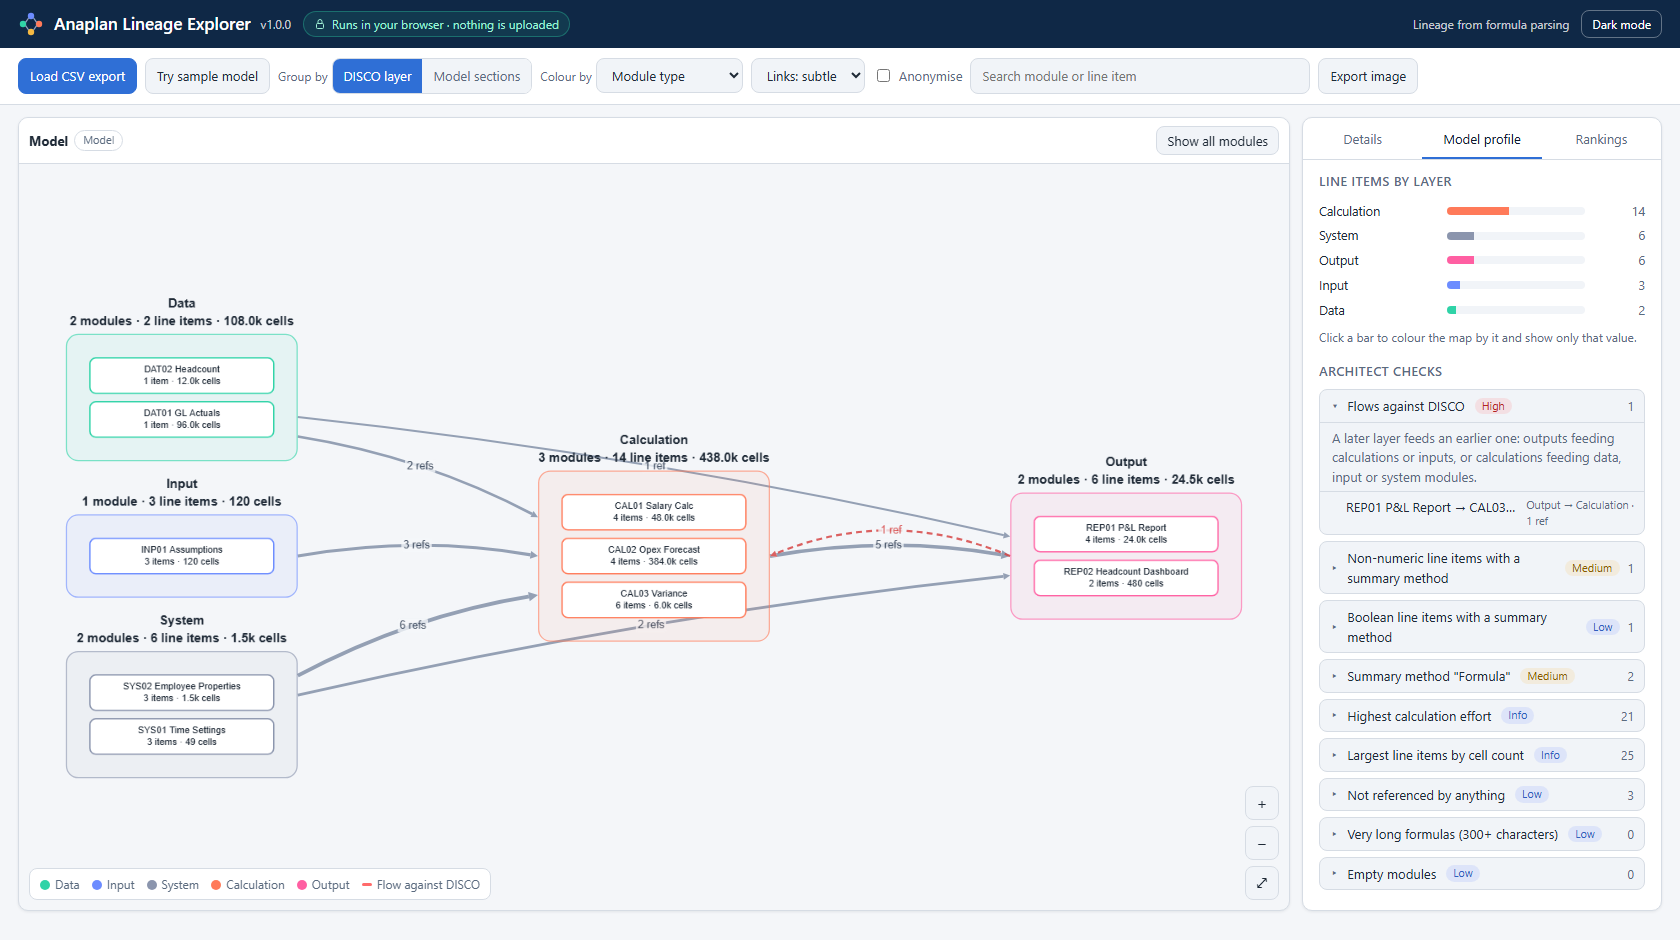
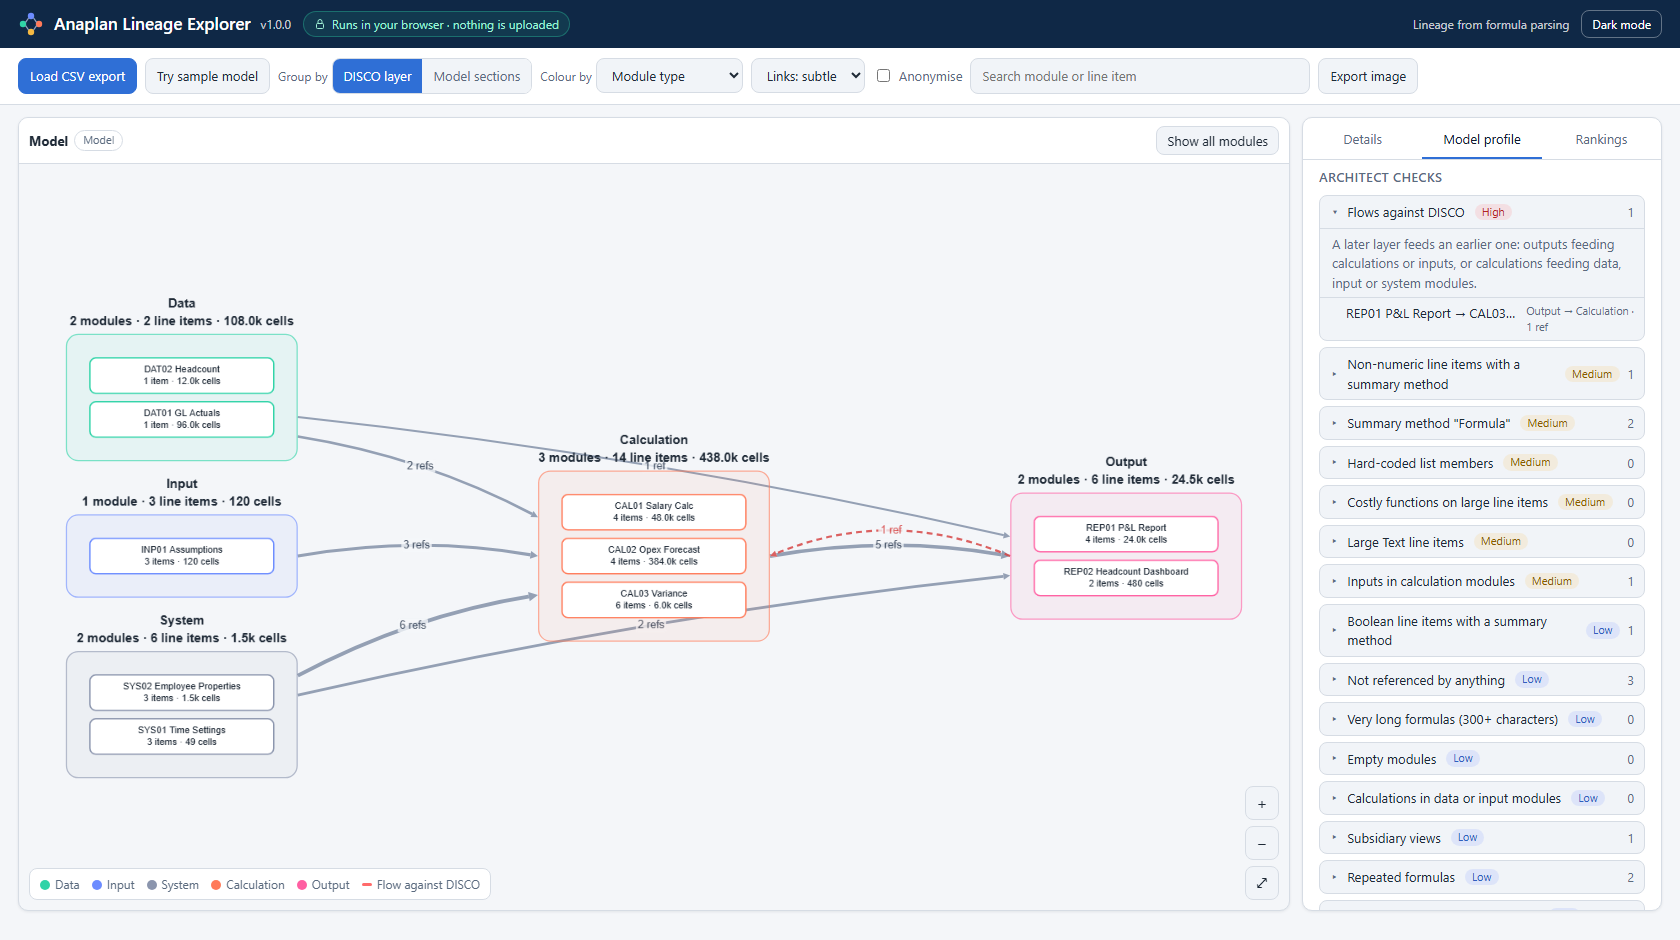
Add nine architect checks to the Model profile
DISCO structure:
- Inputs in calculation modules (no formula, excluding headings and
  No data line items).
- Calculations in data or input modules.
- Subsidiary views: Applies To or time scale differs from the module
  row (skipped when the export has no module rows).

Formulas:
- Hard-coded list members: [SELECT: List.Item] and ITEM(List) =
  List.Item, but not a comparison with a line item.
- Hard-coded numbers, ignoring 0, 1 and 100, numbers inside names and
  quotes, and position arguments of LAG, OFFSET, MOVINGSUM, ROUND,
  LEFT, RIGHT and MID.
- The same formula on the same inputs in more than one line item.
- Formulas with four or more IFs.

Performance (line items over 1 million cells):
- Costly functions: FINDITEM, RANK, RANKCUMULATE, ISFIRSTOCCURRENCE,
  TEXTLIST, POST and text functions, including &.
- Large Text line items.

The checks live in the parsing core as architectChecks(), with unit
tests on made-up data; layerOf() moves there too. All checks are now
ordered by severity, and details that quote a formula are hidden while
Anonymise is on. README, CHANGELOG and the profile screenshot are
updated.

Changed region(s): [[0.7738, 0.1851, 0.9905, 0.9564], [0.9595, 0.216, 0.9905, 0.2468]]

diff --git a/index.html b/index.html
@@ -463,6 +463,117 @@ function parseFiles(files,onProgress){
   return {items,modules,mods,edges:res.edges,source:res.source};
 }
 
+/* ---------- DISCO layer from module name prefixes (DAT, INP, SYS, CAL, OUT…) ---------- */
+const PREFIX_LAYER={SYS:'System',MAP:'System',ADM:'System',DAT:'Data',STG:'Data',STAG:'Data',IMP:'Data',INP:'Input',CAL:'Calculation',CALC:'Calculation',OUT:'Output',REP:'Output',EXP:'Output',DSH:'Output'};
+function layerOf(name){
+  const m=String(name).match(/(?:^|[\s\d._\-])(SYS|DAT|INP|CALC|CAL|OUT|REP|EXP|MAP|STAG|STG|IMP|DSH|ADM)[A-Z0-9]{0,3}(?=[\s\d._\-:]|$)/);
+  if(m) return PREFIX_LAYER[m[1]];
+  const n=String(name);
+  if(/\bstag/i.test(n)) return 'Data'; if(/\bcalc/i.test(n)) return 'Calculation';
+  if(/\b(report|output|export|dashboard)/i.test(n)) return 'Output'; if(/\b(input|assumption)/i.test(n)) return 'Input';
+  if(/\b(system|mapping|properties|settings|calendar|filter|access|time)\b/i.test(n)) return 'System';
+  return 'Other';
+}
+
+/* ---------- Architect checks: line items in, findings out ----------
+   Each finding row is {it, detail, sensitive}. A sensitive detail quotes formula text or names,
+   so the page hides it while Anonymise is on. Thresholds are the ones agreed for v1.1. */
+const LARGE_CELLS=1e6;                      /* "large" line item for the performance checks */
+const HARDCODE_OK=new Set([0,1,100]);       /* numbers not worth flagging (-1 is "-" then 1) */
+const OFFSET_FNS=new Set(['LAG','OFFSET','MOVINGSUM','ROUND','LEFT','RIGHT','MID']); /* their numeric arguments are positions or lengths */
+const COSTLY_FNS=['FINDITEM','RANK','RANKCUMULATE','ISFIRSTOCCURRENCE','TEXTLIST','POST','LEFT','RIGHT','MID','FIND','SUBSTITUTE','TEXT'];
+const MAX_IFS=4, MIN_REPEAT_LEN=20;
+const shortNum=n=>n>=1e9?(n/1e9).toFixed(1)+'B':n>=1e6?(n/1e6).toFixed(1)+'M':n>=1e3?(n/1e3).toFixed(1)+'k':String(Math.round(n));
+
+/* blank out quoted text but keep its length, so positions still line up: '"' strings always, quoted names too when names=true */
+function blankQuoted(f,names){
+  let out='',dq=false,sq=false;
+  for(const c of String(f||'')){
+    if(c==='"'&&!sq){ dq=!dq; out+=c; continue; }
+    if(names&&c==="'"&&!dq){ sq=!sq; out+=c; continue; }
+    out+=(dq||sq)?' ':c;
+  }
+  return out;
+}
+/* the token next to position i, skipping spaces: a single operator character, a whole word, or '' at either end */
+function tokenNear(s,i,dir){
+  let k=dir<0?i-1:i; while(k>=0&&k<s.length&&/\s/.test(s[k])) k+=dir;
+  if(k<0||k>=s.length) return '';
+  if(!/[A-Za-z_]/.test(s[k])) return s[k];
+  let a=k,b=k; while(a>0&&/[A-Za-z_]/.test(s[a-1])) a--; while(b<s.length-1&&/[A-Za-z_]/.test(s[b+1])) b++;
+  return s.slice(a,b+1);
+}
+const isBoundary=t=>t===''||(t.length===1&&OPS.indexOf(t)>=0)||KW.has(t.toLowerCase());
+/* numbers that stand alone between operators or keywords (so the 2 in an unquoted name like "Item 2" is ignored) */
+function hardCodedNumbers(formula){
+  const s=blankQuoted(formula,true), out=[], stack=[];
+  for(let i=0;i<s.length;i++){
+    const c=s[i];
+    if(c==='('){ const w=s.slice(0,i).match(/([A-Za-z_]+)\s*$/); stack.push(w?w[1].toUpperCase():''); continue; }
+    if(c===')'){ stack.pop(); continue; }
+    if(c>='0'&&c<='9'&&!/[\w.]/.test(s[i-1]||'')){
+      const n=s.slice(i).match(/^\d+(?:\.\d+)?/)[0], j=i+n.length;
+      if(!/[\w.]/.test(s[j]||'')&&isBoundary(tokenNear(s,i,-1))&&isBoundary(tokenNear(s,j,1))&&!HARDCODE_OK.has(+n)&&!OFFSET_FNS.has(stack[stack.length-1])) out.push(n);
+      i=j-1;
+    }
+  }
+  return out;
+}
+/* [SELECT: List.Item], and ITEM(List) = List.Item (either way round) where the other side is not a line item.
+   VERIFY: comparing ITEM() with a list-formatted line item is the recommended pattern, so it is not flagged. */
+function hardCodedMembers(formula,own,byName){
+  const s=blankQuoted(formula,false), out=[]; let m;
+  const sel=/\[\s*SELECT\s*:\s*([^\]]+)\]/gi; while((m=sel.exec(s))) out.push('SELECT: '+m[1].trim());
+  const side=t=>{ t=t.trim(); return t&&t.indexOf('.')>0&&!lookup(t,own,byName)?t:''; };
+  const fwd=/ITEM\s*\([^()]*\)\s*(=|<>)\s*/gi;
+  while((m=fwd.exec(s))){ const rest=s.slice(m.index+m[0].length).match(/^(.*?)(?=\s+(?:THEN|AND|OR|ELSE)\b|[),\]]|$)/i); const t=side(rest?rest[1]:''); if(t) out.push('ITEM(…) '+m[1]+' '+t); }
+  const back=/(=|<>)\s*ITEM\s*\(/gi;
+  while((m=back.exec(s))){ const before=s.slice(0,m.index).match(/(?:^|[(,&+*\/]|\b(?:IF|THEN|ELSE|AND|OR|NOT)\b)\s*([^(),&+*\/=<>]*)$/i); const t=side(before?before[1]:''); if(t) out.push(t+' '+m[1]+' ITEM(…)'); }
+  return out;
+}
+function architectChecks(model){
+  const {items,byName,edges}=model;
+  const modOf=it=>byName.get(norm(it.module));
+  const layer=it=>{ const m=modOf(it); return m?(m.layer||layerOf(m.name)):layerOf(it.module); };
+  const ins=new Map(); for(const [s,t] of edges){ if(!ins.has(t)) ins.set(t,[]); ins.get(t).push(s); }
+  const check=(t,sev,help)=>({t,sev,help,rows:[]});
+  const inCal=check('Inputs in calculation modules','med','Line items with no formula in Calculation modules. In DISCO, data and inputs belong in Data or Input modules, so calculation modules stay pure formulas.');
+  const calcIn=check('Calculations in data or input modules','low','Line items with a formula in Data or Input modules. Simple flags can be fine, but most logic belongs in Calculation modules.');
+  const sub=check('Subsidiary views','low',"Line items whose Applies To or time scale differs from their module's. Some are intended; many are better as their own module. Needs the module rows in the export.");
+  const nums=check('Hard-coded numbers in formulas','low','Numbers typed into formulas (other than 0, 1 and 100, and positions or lengths in functions such as LAG, OFFSET and LEFT). Consider an assumption line item that users can see and change.');
+  const members=check('Hard-coded list members','med','Formulas that name a specific list item, through SELECT or ITEM(…) = List.Item. They break when the list changes. Consider a Boolean or list-formatted line item in a system module instead.');
+  const repeat=check('Repeated formulas','low','The same formula on the same inputs in more than one line item. Calculating it once and referencing the result is easier to maintain and often cheaper.');
+  const ifs=check('Deeply nested IFs',"low",`Formulas with ${MAX_IFS} or more IFs. Consider splitting them into steps, or a lookup from a mapping module.`);
+  const costly=check('Costly functions on large line items','med',`Functions such as FINDITEM, RANK, ISFIRSTOCCURRENCE, POST and text functions (including &) on line items over ${shortNum(LARGE_CELLS)} cells. Check whether they can run on a smaller line item and be referenced.`);
+  const bigText=check('Large Text line items','med',`Text line items over ${shortNum(LARGE_CELLS)} cells. Text takes much more memory than numbers, Booleans or list formats.`);
+  const groups=new Map();
+  for(const it of items){
+    const p=it.p||{}, f=it.formula||'', lay=layer(it), m=modOf(it), md=m&&m.meta||{};
+    if(lay==='Calculation'&&!f&&p.fmtType!=='No data'&&!/^heading/i.test(p.style||'')) inCal.rows.push({it,detail:'no formula'});
+    if((lay==='Data'||lay==='Input')&&f) calcIn.rows.push({it,detail:lay});
+    if(md.name){ /* VERIFY: an empty Applies To or Time Scale on a line item means it follows the module */
+      const mine=splitList(it.appliesTo).map(norm).sort().join('|'), theirs=splitList(md.appliesTo).map(norm).sort().join('|');
+      if(mine&&mine!==theirs) sub.rows.push({it,detail:'Applies To differs from the module'});
+      else if(p.ts&&md.ts&&norm(p.ts)!==norm(md.ts)) sub.rows.push({it,detail:`time scale ${p.ts} (module ${md.ts})`});
+    }
+    if(!f) continue;
+    const n=hardCodedNumbers(f); if(n.length) nums.rows.push({it,detail:[...new Set(n)].join(', '),sensitive:true});
+    const hm=hardCodedMembers(f,m,byName); if(hm.length) members.rows.push({it,detail:hm.join('; '),sensitive:true});
+    const plain=blankQuoted(f,true);
+    const nIf=(plain.match(/\bIF\b/gi)||[]).length; if(nIf>=MAX_IFS) ifs.rows.push({it,detail:nIf+' IFs'});
+    if(f.length>=MIN_REPEAT_LEN&&/[-+*\/&<>=(\[]/.test(plain)){ /* logic, not a plain reference */
+      const k=f.replace(/\s+/g,' ').trim().toLowerCase()+'|'+(ins.get(it.idx)||[]).slice().sort((a,b)=>a-b).join(',');
+      if(!groups.has(k)) groups.set(k,[]); groups.get(k).push(it); }
+    if((p.cells||0)>LARGE_CELLS){
+      const fns=COSTLY_FNS.filter(fn=>new RegExp('\\b'+fn+'\\s*\\(','i').test(plain)); if(plain.indexOf('&')>=0) fns.push('&');
+      if(fns.length) costly.rows.push({it,detail:fns.join(', ')+' · '+shortNum(p.cells)+' cells'});
+    }
+  }
+  for(const it of items){ const p=it.p||{}; if(p.fmtType==='Text'&&(p.cells||0)>LARGE_CELLS) bigText.rows.push({it,detail:shortNum(p.cells)+' cells'}); }
+  groups.forEach(g=>{ if(g.length>1) for(const it of g) repeat.rows.push({it,detail:`same as ${g.length-1} other line item${g.length===2?'':'s'}`}); });
+  return [members,costly,bigText,inCal,calcIn,sub,repeat,nums,ifs];
+}
+
 </script>
 <script src="https://cdn.jsdelivr.net/npm/cytoscape@3.30.2/dist/cytoscape.min.js" integrity="sha384-IWROdLKRsN1UuJywMlWl7/blXQ8GEooN2n7dzTxfEPd7ybYIKCUJ2Ol/1Gpf3YV4" crossorigin="anonymous"></script>
 <script>
@@ -481,16 +592,6 @@ const LAYERS=['Data','Input','System','Calculation','Output','Other'];
 const LAYER_COLOR={Data:'#2fd3a7',Input:'#6c8cff',System:'#8b95ad',Calculation:'#ff7a59',Output:'#ff5fa2',Other:'#b38cff'};
 const LAYER_RANK={Data:0,Input:0,System:0,Calculation:1,Output:2};
 const SECTION_COLORS=['#6c8cff','#2fd3a7','#ff7a59','#ff5fa2','#f5b942','#b38cff','#4fc3f7','#9ccc65','#e57373','#a1887f','#90a4ae','#ffb74d'];
-const PREFIX_LAYER={SYS:'System',MAP:'System',ADM:'System',DAT:'Data',STG:'Data',STAG:'Data',IMP:'Data',INP:'Input',CAL:'Calculation',CALC:'Calculation',OUT:'Output',REP:'Output',EXP:'Output',DSH:'Output'};
-function layerOf(name){
-  const m=String(name).match(/(?:^|[\s\d._\-])(SYS|DAT|INP|CALC|CAL|OUT|REP|EXP|MAP|STAG|STG|IMP|DSH|ADM)[A-Z0-9]{0,3}(?=[\s\d._\-:]|$)/);
-  if(m) return PREFIX_LAYER[m[1]];
-  const n=String(name);
-  if(/\bstag/i.test(n)) return 'Data'; if(/\bcalc/i.test(n)) return 'Calculation';
-  if(/\b(report|output|export|dashboard)/i.test(n)) return 'Output'; if(/\b(input|assumption)/i.test(n)) return 'Input';
-  if(/\b(system|mapping|properties|settings|calendar|filter|access|time)\b/i.test(n)) return 'System';
-  return 'Other';
-}
 const isDividerName=n=>/^\s*[-*=_#~]{2,}/.test(n)||/[-*=_#~]{3,}\s*$/.test(n);
 const tidySection=n=>{ const t=n.replace(/[-*=_#~]+/g,' ').replace(/\s+/g,' ').trim(); return t?t.charAt(0).toUpperCase()+t.slice(1).toLowerCase():'Unnamed section'; };
 
@@ -629,7 +730,7 @@ function hydrate(res){
     if(!m.meta.cells){ let c=0; m.items.forEach(it=>c+=(it.p&&it.p.cells)||0); m.cellsCalc=c; }
   }
   const modList=ordered.filter(m=>!m.divider);
-  S.g={items,mods,byName,modList,edgeCount:edges.length,dcaCount:dca.size,dca,modOut,modIn,source,sections:[...sections.values()],
+  S.g={items,mods,byName,edges,modList,edgeCount:edges.length,dcaCount:dca.size,dca,modOut,modIn,source,sections:[...sections.values()],
        secName:new Map([...sections.values()].map(s=>[s.key,s.name])),hasSections:hasDiv&&modules.length>0,
        hasMeta:items.some(i=>i.p&&(i.p.fmtType||i.p.sum))};
   S.byId=new Map(items.map(i=>[i.id,i]));
@@ -1171,6 +1272,9 @@ function renderProfile(){
   checks.push({t:'Very long formulas (300+ characters)',sev:'low',help:'Long formulas are harder to audit and often hide repeated logic. Consider splitting them into steps.',rows:longF.map(i=>({go:i.id,l:itemLabel(i),r:fmt(i.formula.length)+' chars · '+modLabel(mod(i.mk))}))});
   const empty=g.modList.filter(m=>m.size===0);
   checks.push({t:'Empty modules',sev:'low',help:'Modules with no line items (dividers are excluded).',rows:empty.map(m=>({go:'m:'+m.key,l:modLabel(m),r:m.layer}))});
+  if(!g.checks) g.checks=architectChecks({items:g.items,byName:g.byName,edges:g.edges}); /* names are resolved at display time, so this survives Anonymise */
+  for(const c of g.checks) checks.push({t:c.t,sev:c.sev,help:c.help,rows:c.rows.map(r=>({go:r.it.id,l:itemLabel(r.it),r:modLabel(mod(r.it.mk))+(r.detail?' · '+(r.sensitive&&isAnon()?'•••':r.detail):'')}))});
+  const sevRank={high:0,med:1,low:2,info:3}; checks.sort((a,b)=>sevRank[a.sev]-sevRank[b.sev]);
   const sevName={high:'High',med:'Medium',low:'Low',info:'Info'};
   el.innerHTML=`<div class="stats"><div class="stat"><b>${fmt(g.modList.length)}</b><span>Modules</span></div><div class="stat"><b>${fmt(items.length)}</b><span>Line items</span></div><div class="stat"><b>${fmt(formulas)}</b><span>Formulas</span></div><div class="stat"><b>${cells?short(cells):fmt(g.edgeCount)}</b><span>${cells?'Cells':'References'}</span></div></div>
    <p class="note" style="margin-top:-4px">Lineage source: ${g.source==='rb'?"Anaplan's <b>Referenced By</b> column":g.source==='mixed'?"Anaplan's <b>Referenced By</b> column for files that have it, formula parsing for the others":'formula parsing (export has no Referenced By column)'}${g.dcaCount?`, plus ${fmt(g.dcaCount)} access-driver (DCA) links`:''}.</p>

diff --git a/README.md b/README.md
@@ -38,12 +38,12 @@ The app uses a light theme close to Anaplan's own interface by default, with a n
 
 - **Every card shows** format, summary method and time scale. The side panel lists all properties: format details, summary and time summary, time scale and range, versions, Applies To, cell count, calculation effort, parent, style, code, data tags and access drivers (DCA).
 - **Colour by** format, summary method, time scale, versions, calculation effort, cell count or formula length. Click a legend entry to show only that value.
-- **Model profile** gives breakdowns plus architect checks:
-  - flows against DISCO
-  - non-numeric line items with a summary method
-  - Boolean summaries and Formula summaries
-  - the highest calculation effort and largest cell counts
-  - unreferenced line items, very long formulas and empty modules
+- **Model profile** gives breakdowns plus architect checks, ordered by severity. Click any finding to open its lineage.
+  - **DISCO structure:** flows against DISCO, inputs in calculation modules, calculations in data or input modules, and subsidiary views (line items whose Applies To or time scale differs from their module's).
+  - **Formulas:** hard-coded list members (`SELECT:` or `ITEM(…) = List.Item`), hard-coded numbers, the same formula repeated on the same inputs, deeply nested IFs (4 or more) and very long formulas.
+  - **Performance:** costly functions (FINDITEM, RANK, ISFIRSTOCCURRENCE, POST, text functions) and Text format on line items over 1 million cells, Formula summaries, and the highest calculation effort and largest cell counts.
+  - **Tidying:** non-numeric and Boolean line items with a summary method, unreferenced line items and empty modules.
+  - With **Anonymise** on, findings that quote a formula show `•••` instead.
 - **Rankings** list the most referenced line items, cross-module use, downstream impact, calculation effort, cell count and more, and copy as CSV.
 
 ## Grouping

diff --git a/CHANGELOG.md b/CHANGELOG.md
@@ -2,6 +2,17 @@
 
 All notable changes to this project are listed here. The format follows [Keep a Changelog](https://keepachangelog.com/en/1.1.0/), and the project uses [semantic versioning](https://semver.org/).
 
+## [Unreleased]
+
+### Added
+
+- Nine architect checks in the Model profile:
+  - **DISCO structure:** inputs in calculation modules, calculations in data or input modules, and subsidiary views.
+  - **Formulas:** hard-coded list members, hard-coded numbers, repeated formulas and deeply nested IFs.
+  - **Performance:** costly functions and large Text line items, both on line items over 1 million cells.
+- Architect checks are ordered by severity.
+- With Anonymise on, findings that quote a formula are hidden.
+
 ## [1.0.0] - 2026-11-27
 
 First release.
